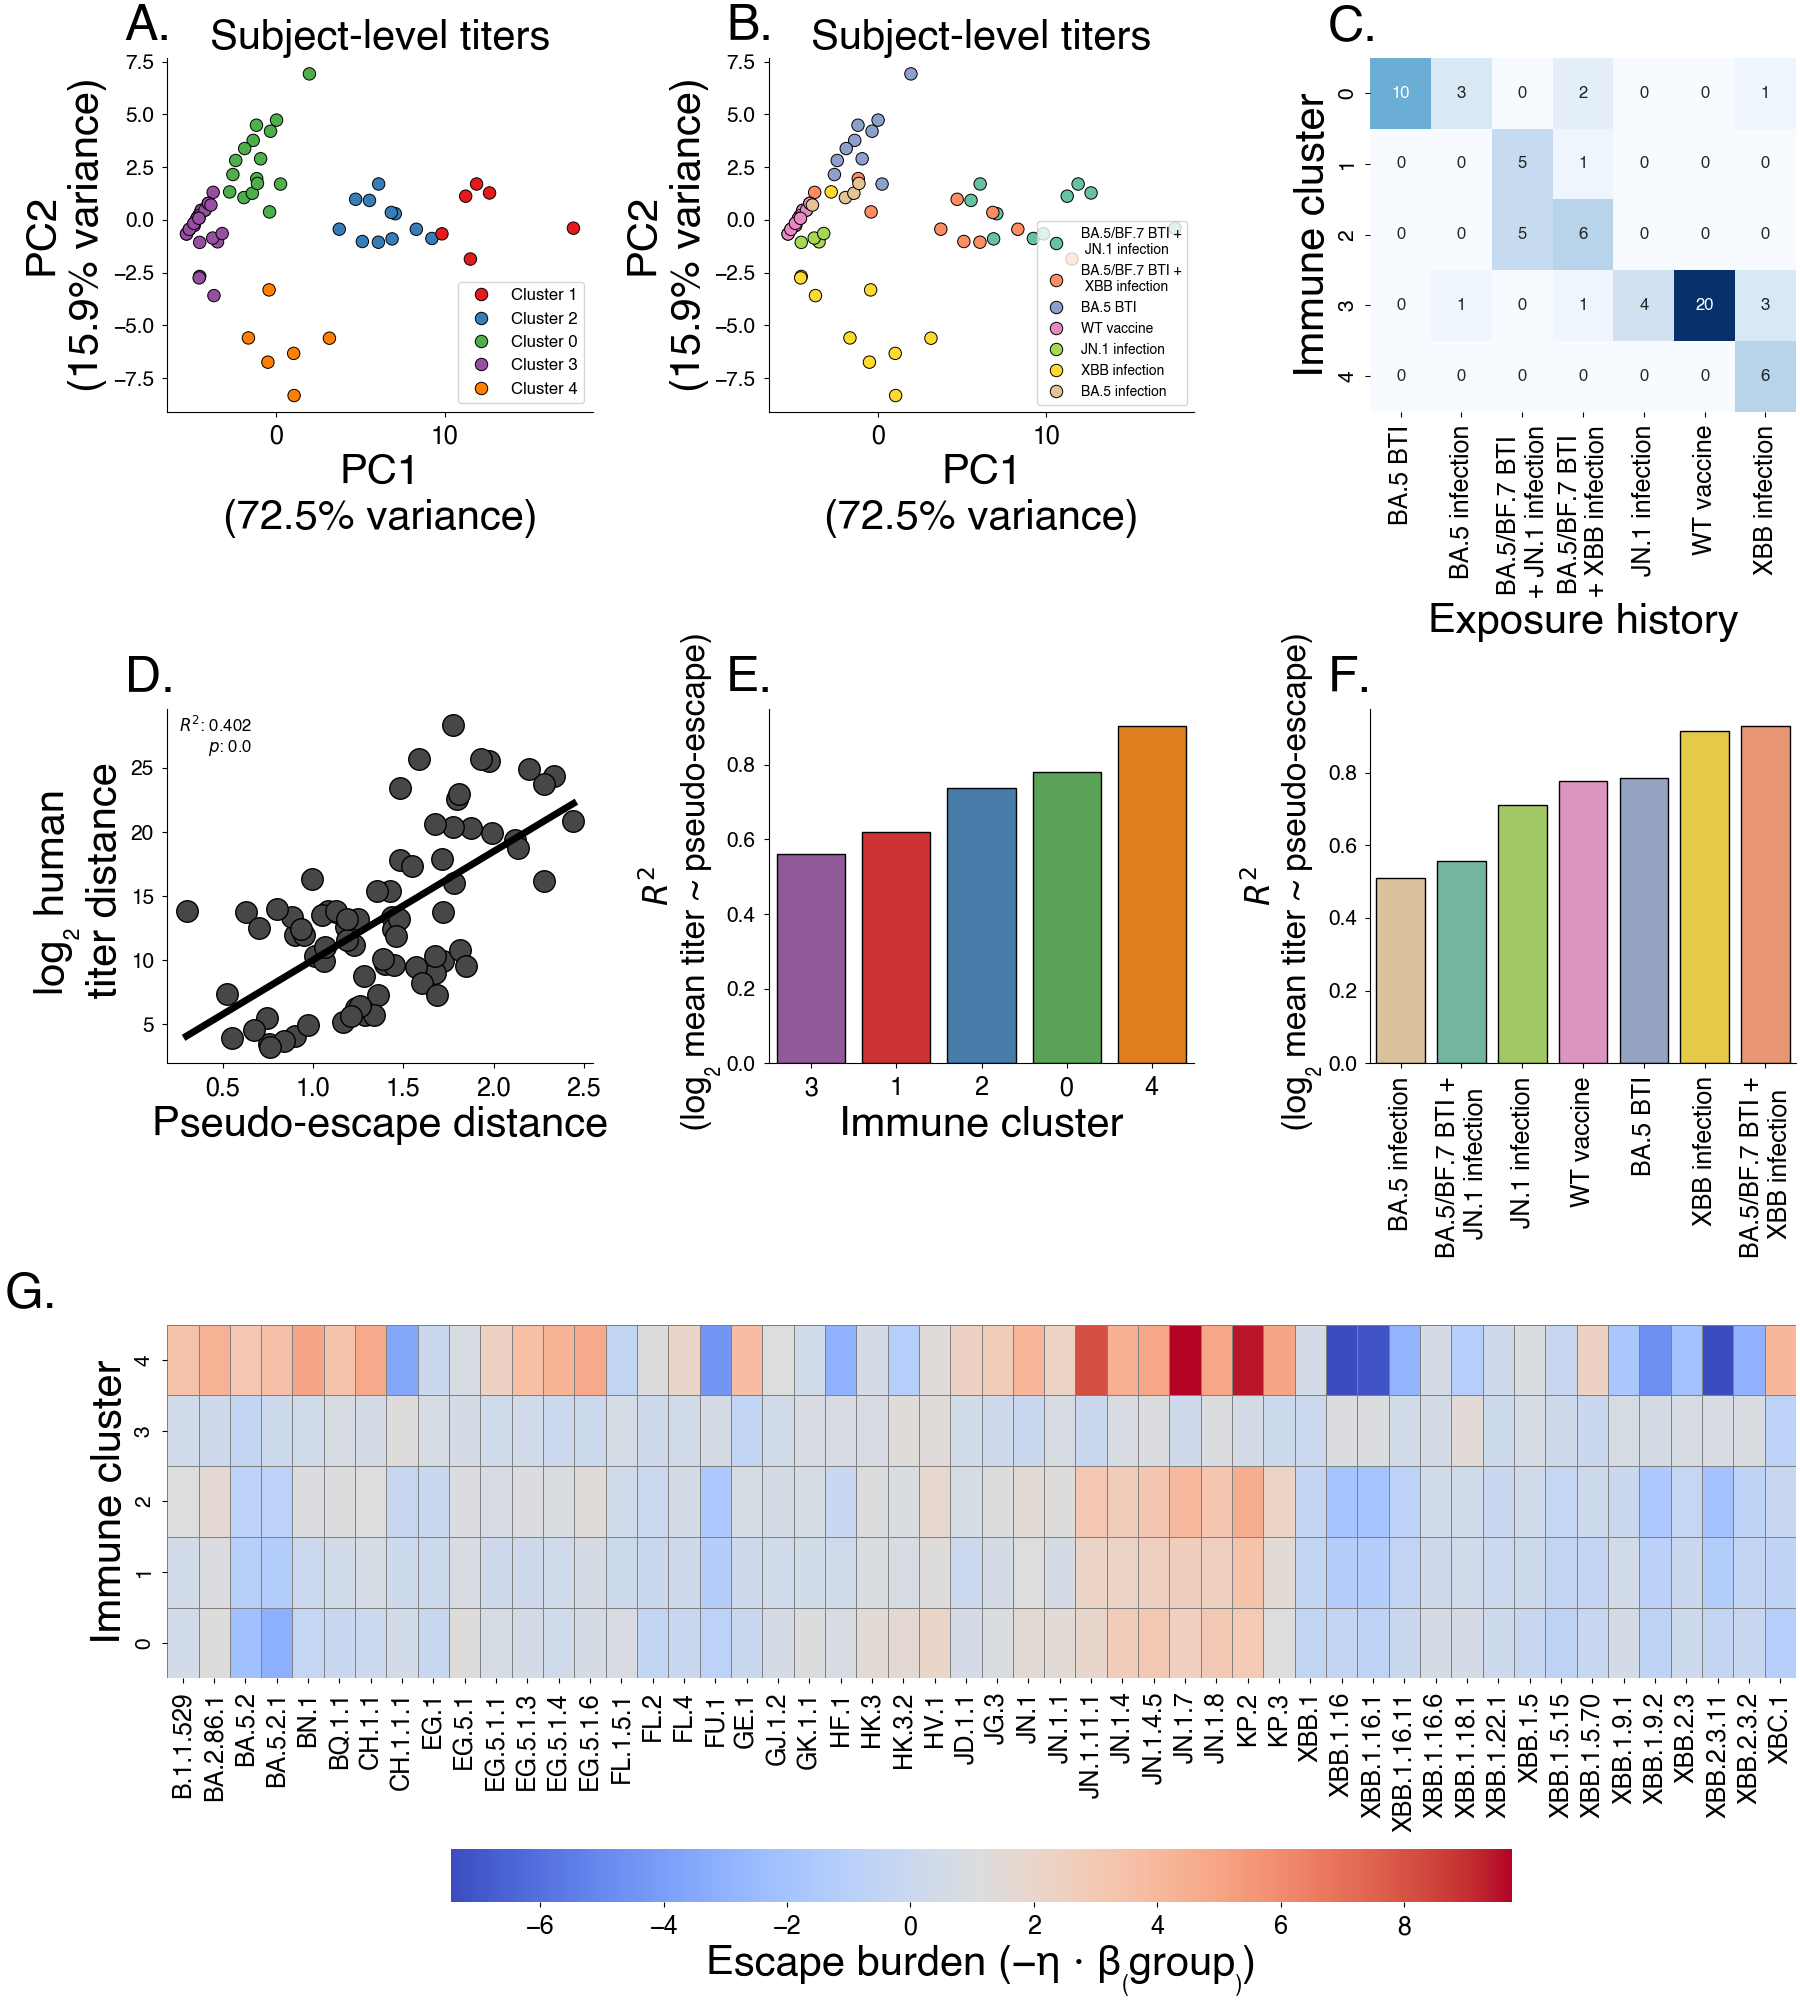
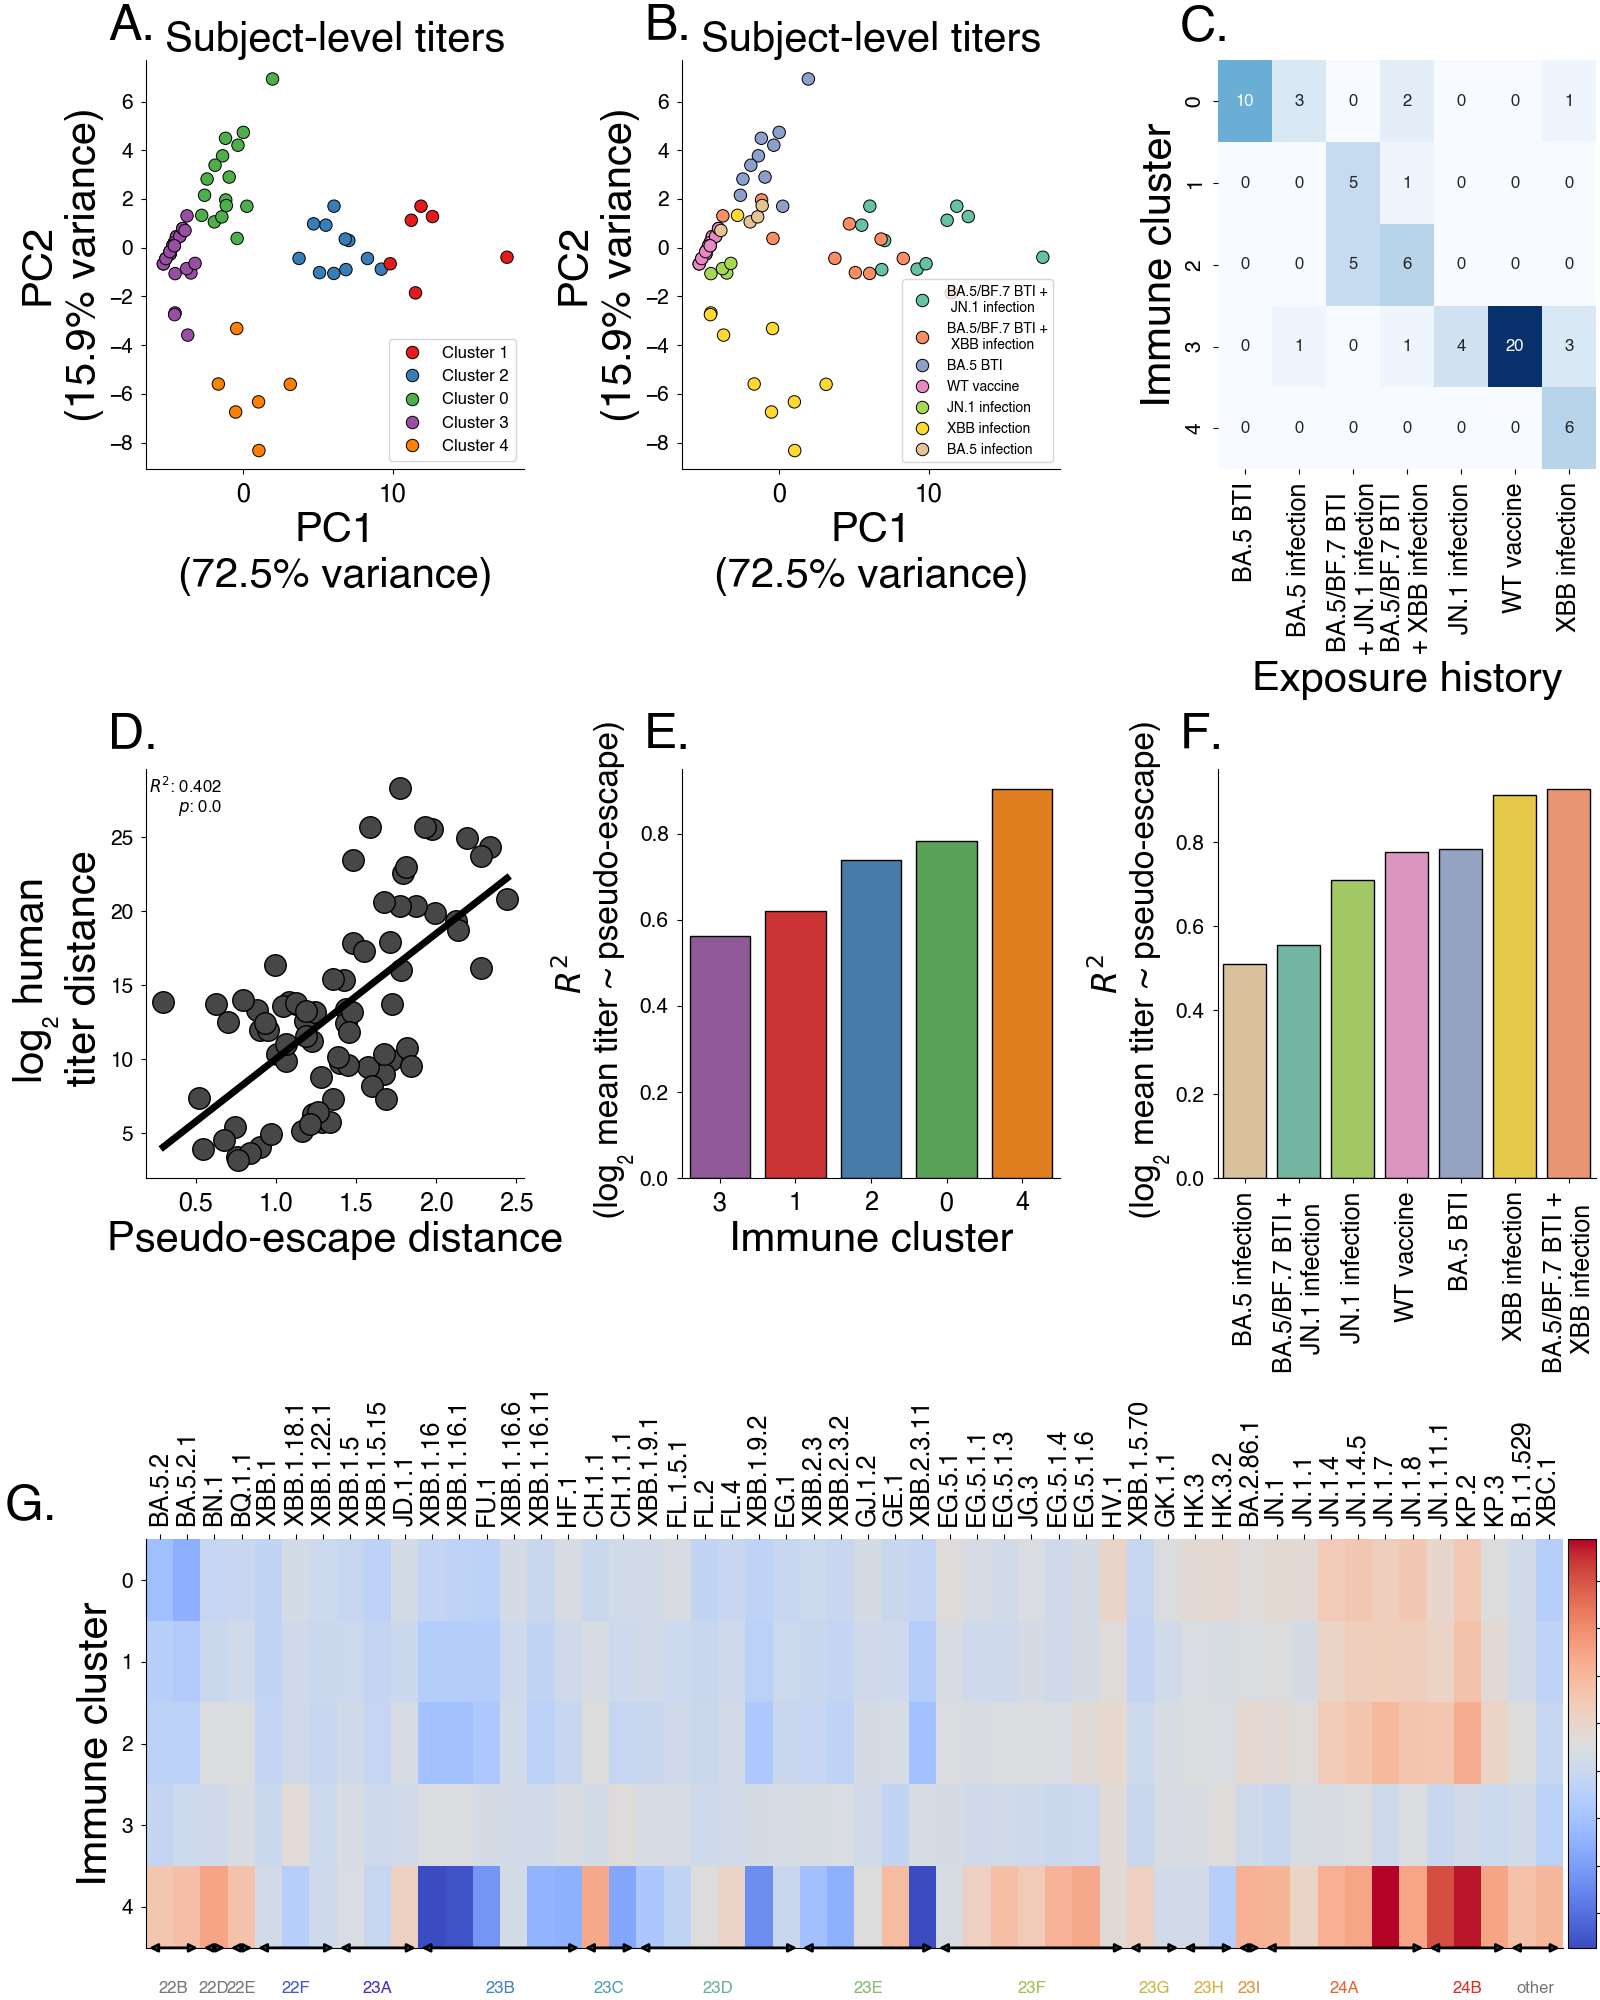
Manuscript updates: results, figures, discussion, citations

diff --git a/manuscript/relative-fitness-mechanisms.tex b/manuscript/relative-fitness-mechanisms.tex
@@ -149,8 +149,6 @@ These insights refine real-time forecasting and lay the groundwork for research 
 
 %%% Introduction
 
-%TODO: Flesh out, focusing on the emergence of looking at empirical variant advantage with frequency based model due to increased sequencing globally + tools like Nextclade.
-
 The COVID-19 pandemic was marked by the successive emergence of SARS-CoV-2 variant viruses, driving repeated epidemics globally \cite{tegally2021detection, Volz2021}.
 While these repeated large waves occurred with the emergence of novel variants, the mechanism driving these variants' success changed over time.
 The spread of early variants such as Alpha, Beta, Gamma and Delta were largely driven by increases in intrinsic transmissibility \cite{carabelli2023sars}.
@@ -170,16 +168,17 @@ However, this may be an oversimplification of the transmission process.
 It has been shown that these transmission advantages differ geographically and temporally, suggesting that variant transmission advantages are not necessarily fixed and may be informed by within-region population differences \cite{figgins2022sars, vanDorp2022}.
 In fact, heterogeneity in transmission advantages may be well explained by regional differences in immune structure as Dadonaite et al.\ \cite{Dadonaite2023} show deep mutational scanning estimates of immune escape are well correlated with estimated variant growth advantages.
 Existing models that allow variant transmission advantages to change in time generally do not have a mechanistic underpinning for why transmission advantages exist and vary geographically and temporally \cite{figgins2022sars, susswein2023leveraging}.
-% These non-mechanistic transmission advantages are useful for real-time situation analysis though more work is required to develop theory for how various mechanisms determine viral fitness.
-% In particular, distinguishing between mechanisms of immune escape and transmissibility may improve our ability to make informed short-term forecasts or include other forms of data to explain patterns of relative fitness.
 This lack of mechanistic grounding limits our ability to accurately predict variant dynamics, especially in diverse geographic regions with varying levels of population immunity.
+
+Further, when mechanistic grounding has been considered, these modeling approaches have relied on molecular or serological data that is rarely available in real-time due to the speed and cost of experiments \cite{Meijers2023, Raharinirina2025}. 
 
 In response to this gap, we introduce a novel framework that links variant dynamics directly to transmission mechanisms using compartmental models of infectious diseases.
 By modeling both intrinsic transmissibility and immune escape, we explain how shifts in population immunity shape the relative fitness of viral variants and select for immune escape over intrinsic transmissibility with increasing past exposure.
 Furthermore, including these mechanisms suggests that relative fitness varies in time, reflecting the evolving landscape of population immunity and exposure regardless of the underlying mechanism.
 
 Here, we present a novel non-parametric method for estimating time-varying fitness regardless of the underlying transmission mechanism.
-Alongside this development we introduce a ``selective pressure'' metric that quantifies the impact of variant turnover on population-level epidemic growth rates, as well as a latent immunity model that we use to estimate the underlying proportion of pseudo-immune groups within multiple geographies and pseudo-immune escape rates for circulating variants.
+Alongside this development we introduce a ``selective pressure'' metric that quantifies the impact of variant turnover on population-level epidemic growth rates.
+Finally, we develop a latent immunity model that we use to estimate the underlying proportion of pseudo-immune groups within multiple geographies and pseudo-immune escape rates for circulating variants which recreates antigenic distances using sequence data alone.
 Overall, our framework bridges the gap between genetic data and transmission dynamics, offering a new way to predict and manage viral outbreaks.
 
 % TB: These two below paragraphs on predicting epidemic growth and latent immunity are too detailed for the normal `preview' of manuscript contents.
@@ -472,7 +471,7 @@ If immune escape is the dominant mechanism for relative fitness difference, we e
 
 \begin{figure}[h]
     \centering
-    \includegraphics[width=0.8\linewidth]{./figures/latent-immune-structure.png}
+    \includegraphics[width=0.6\linewidth]{./figures/latent-immune-structure.png}
     \caption{
       \textbf{Latent factor models of immunity predict titers across varying exposure histories.}
       Using pseudo-escape values from our latent factor model (Fig.~\ref{fig:latent_immune}) and human titer data, we show that pseudo-escape values predict antigenic distance and titers.
@@ -503,10 +502,11 @@ Next, we subset by exposure history and find a similar relationship in most coho
 
 We quantified which immune clusters are preferentially targeted by circulating lineages using the model-predicted pseudo-escape $\eta_{v,\cdot}$ for each variant $v$ to predict titers against that variant for individuals in each immune cluster and exposure history group (Fig.~\ref{fig:latent_immune_structure}E-F).
 
-To assess variant-level escape against each cluster, we analyze the escape burden (the negative of the predicted titer) on our 
+To assess variant-level escape against each cluster, we predict an escape burden as the negative of the predicted titer as a proxy for the escape potential against individuals of a certain background.
 Variants within JN.1 clade show elevated escape burden in specific clusters, with immune cluster~4 standing out as the most broadly targeted.
 This is consistent with the pseudo-escape patterns in Fig.~\ref{fig:latent_immune}F, where JN.1-family lineages exhibit high pseudo-escape along the dominant dimensions.
-Further, we find that immune cluster~4 shows a strong negative escape burden again viruses in clade 23B, likely owing the fact that individuals immune cluster~4 corresponds to a subset of individuals with past XBB infection (Fig.~\ref{fig:latent_immune_structure}G).
+Further, we find that immune cluster 4 shows a strong negative escape burden again viruses in clade 23B, likely owing the fact that individuals immune cluster 4 corresponds to a subset of individuals with past XBB infection (Fig.~\ref{fig:latent_immune_structure}G).
+This is further supported by the fact that among all infection histories, pseudo-escape best predicts titers in individuals with past XBB infection including those with BA.5/BF.7 breakthrough infection (Fig.~\ref{fig:titer_pseudo_escape_correlations_by_immune_group}-\ref{fig:titer_pseudo_escape_correlations_by_immune_cluster}).
 
 In short, this shows that a sequence-only latent immunity model can recover an antigenic geometry that agrees with human serology and that learned pseudo-escape values can be used to predict cohort-level neutralization patterns.
 These properties make the latent representation useful for analyzing population susceptibility and explaining geographic variation in variant success, even when contemporaneous titer data are unavailable.
@@ -521,6 +521,9 @@ This enables an embedding similar to those from antigenic cartography but withou
 Our study demonstrates the utility of multi-strain mechanistic models in interpreting variant frequency dynamics.
 This enables a more detailed picture of variant success in environments with heterogeneous population immunity.
 Our mechanistic grounding of variant fitness allows for investigations into trade-offs between intrinsic transmissibility increase and immune escape, prediction of epidemic dynamics from sequence data alone and inference of antigenic relatedness among variants from differences in success across geographies.
+
+In particular, our latent factor model is most easily compared to the approaches of Meijers et al. and Raharinirina et al. which use cross-neutralization and deep mutational scanning data (respectively) to forecast variant fitness \cite{Meijers2023, Raharinirina2025}.
+Our approach differs significantly in that our model does not require any data other than sequences counts for each variant over time, enabling real-time analysis of fitness and heterogeneity in population immunity before cross-neutralization and deep mutational scanning data are available.
 
 % One key insight from this was the trade-off between intrinsic transmissibility increase and immune escape.
 % We showed that this trade-off is shifted by changes in population immunity, so that immune escape dominates as exposure increases.
@@ -663,6 +666,33 @@ We compare the distances between variant pairs in our estimated pseudo-escape sp
 Using human titer data from Jian et al \cite{Jian2023}, we compute neutralization titer distances as the average of differences in log2 neutralization titers between pairs of variants for a cohort of individuals.
 This analysis is repeated among 1,000 bootstrapped samples to create a distribution of $R^2$ values (Fig.~\ref{fig:latent_immune_bootstrap}).
 Additionally, we subset this by exposure history and repeat this analysis to find which exposure groups best explain distances in pseudo-escape space (Fig.~\ref{fig:titer_distance_correlations_by_group}).
+
+\paragraph{Regression of pseudo-escape onto neutralization titers}
+
+To assess the relationship between our estimated pseudo-escape values and empirical neutralization titers, we use human titer data from Jian et al.~\cite{Jian2023}.  
+For each exposure group, we have a set of neutralization titers measured against multiple variants.  
+Our goal is to determine whether variation in titers across variants can be explained by the pseudo-escape values inferred from our latent immune factor model.
+
+Let $t_{i,v}$ denote the neutralization titer of individual $i$ against variant $v$.  
+For each exposure group $G$, we first aggregate titers by computing the group-level mean and applying a log$_2$ transformation with a pseudocount of one, i.e.
+\begin{equation}
+    y_{v}^G = \log_2\left(\mathrm{mean}_{i \in G}(t_{i,v}) + 1\right).
+\end{equation}
+Let $\varEscape_v \in \mathbb{R}^D$ denote the pseudo-escape vector of variant $v$ estimated from the latent immune factor model across $D$ latent factors.  
+We then fit an ordinary least squares (OLS) model separately for each exposure group,
+\begin{equation}
+    y_{v}^G = \beta_0 + \boldsymbol{\beta}^\top \varEscape_v + \varepsilon_{g,v},
+\end{equation}
+where $\beta_0$ is an intercept term and $\boldsymbol{\beta}$ is a vector of regression coefficients mapping latent factors to predicted group-level titers.  
+This yields a coefficient of determination $R^2_g$ for each group, quantifying how well variation in pseudo-escape explains variation in group-level titers.
+
+To assess statistical significance, we performed a permutation test in which the association between variants and their pseudo-escape vectors was randomly permuted 1,000 times.  
+For each permutation, we re-fit the OLS model and recorded the resulting $R^2_g$, yielding a null distribution under the hypothesis that pseudo-escape and titers are unrelated.  
+The empirical $p$-value for each group was computed as the fraction of permutations with $R^2_g$ greater than or equal to the observed $R^2_g$.
+This procedure controls for the correlation structure in the titer data while directly testing whether the inferred pseudo-escape values have predictive power for neutralization measurements.
+
+We summarize the results across groups by reporting both the observed $R^2$ values and the permutation-derived $p$-values (Fig.~\ref{fig:titer_pseudo_escape_correlations_by_immune_group} and \ref{fig:titer_pseudo_escape_correlations_by_immune_cluster}).  
+This analysis identifies exposure groups where pseudo-escape provides a statistically significant explanation of the neutralization response profile.
 
 \subsection*{Acknowledgements}
 
@@ -1155,7 +1185,7 @@ We can then use this to reconstruct the relative incidence
     \caption{
         \textbf{Titers predicted with pseudo-escape values and observed titers within infection cohorts.}
     }
-    \label{fig:titer_pseudo-escape_correlations_by_immune_group}
+    \label{fig:titer_pseudo_escape_correlations_by_immune_group}
 \end{figure}
 
 \begin{figure}[t!]
@@ -1164,7 +1194,7 @@ We can then use this to reconstruct the relative incidence
     \caption{
         \textbf{Titers predicted with pseudo-escape values and observed titers within immune clusters.}
     }
-    \label{fig:titer_pseudo-escape_correlations_by_immune_cluster}
+    \label{fig:titer_pseudo_escape_correlations_by_immune_cluster}
 \end{figure}
 
 \end{document}
